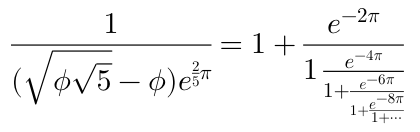
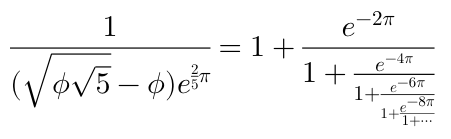
Fix typos.

Changed region(s): [[0.0, 0.2424, 0.9905, 0.9394], [0.7429, 0.0606, 0.8976, 0.2727], [0.2167, 0.0909, 0.2786, 0.2727]]

diff --git a/iosMathExample/example/ViewController.m b/iosMathExample/example/ViewController.m
@@ -68,7 +68,7 @@
     [self setVerticalGap:10 between:demoLabel2 and:demoLabel3];
 
     MTMathUILabel* demoLabel4 = [self createMathLabel:@"\\frac{1}{(\\sqrt{\\phi \\sqrt{5}}-\\phi) e^{\\frac25 \\pi}} \
-                                 = 1+\\frac{e^{-2\\pi}} {1 \\frac{e^{-4\\pi}} {1+\\frac{e^{-6\\pi}} {1+\\frac{e^{-8\\pi}} {1+\\cdots} } } }"
+                                 = 1+\\frac{e^{-2\\pi}} {1 +\\frac{e^{-4\\pi}} {1+\\frac{e^{-6\\pi}} {1+\\frac{e^{-8\\pi}} {1+\\cdots} } } }"
                                            withHeight:80];
     demoLabel4.fontSize = 15;
     [self addLabelAsSubview:demoLabel4 to:contentView];

diff --git a/README.md b/README.md
@@ -76,7 +76,7 @@ an `MTMathUILabel` as follows:
 #import "MTMathListBuilder.h"
 
 MTMathULabel* Iabel = [[MTMathUILabel alloc] init];
-label.mathList = [MTMathListBuilder buildFromString:@"x = \\frac{-b + \\sqrt{b^2-4ac}}{2a}"];
+label.mathList = [MTMathListBuilder buildFromString:@"x = \\frac{-b \\pm \\sqrt{b^2-4ac}}{2a}"];
 
 ```
 Adding `MTMathUILabel` as a sub-view of your `UIView` as will render the
